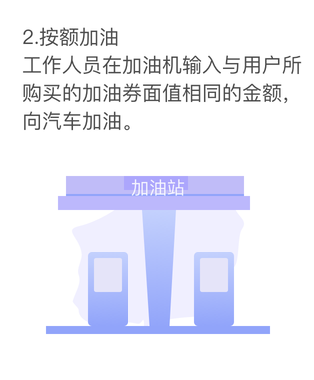
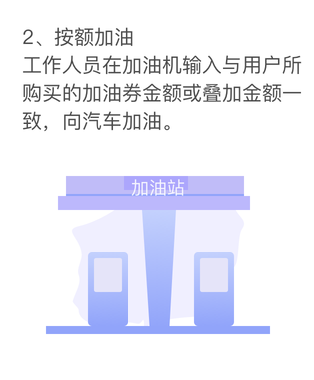
修改特惠加油说明文言

Changed region(s): [[0.0573, 0.2026, 0.7739, 0.3474], [0.1146, 0.0579, 0.4299, 0.1447], [0.8885, 0.2316, 0.9459, 0.2605]]

diff --git a/XTModulesSDK/Modules/Refuel/XTRefuelViewController.m b/XTModulesSDK/Modules/Refuel/XTRefuelViewController.m
@@ -614,7 +614,7 @@ typedef NS_ENUM(NSInteger, XTCountOperateType)
 - (UIView *)purchaseNoticeView
 {
     if (!_purchaseNoticeView) {
-        NSString *purchaseNotice = @"1、此电子券由中国石油天然气股份有限公司辽宁销售分公司发行，在所属指定加油站通用（仅限辽宁省内使用）。\n\n2、此卡不记名，有效期自购买之日起3年，不挂失补办和退卡、不找零、不兑现，请勿将二维码泄露给他人，因保管不当造成损失后果自负。\n\n3、此卡200元(含)面值以下一次性核销。\n\n4、可以一次购买一张或者多张电子券，可多张叠加使用，不找零。\n\n5、可使用右上角“附近加油站”功能查看可使用的加油站。如遇到不能使用的情况请拨打客服电话400-024-0700";
+        NSString *purchaseNotice = @"1、此电子券由中国石油天然气股份有限公司辽宁销售分公司发行，在所属指定加油站通用（仅限辽宁省内使用）。\n\n2、此电子券不记名，有效期自购买之日起3年，不挂失补办、不找零、不兑现，请勿将电子券码泄露给他人，因保管不当造成损失后果自负。\n\n3、此电子券200元（含）面值以下一次性核销。\n\n4、可以一次购买一张或者多张电子券，可多张叠加使用，不找零。\n\n5、可使用右上角“附近加油站”功能查看可使用的加油站。如遇到不能使用的情况请拨打客服电话400-024-0700。";
         CGFloat height = [XTAppUtils sizeOfString:purchaseNotice font:XTFont(12.0) constrainedToSize:CGSizeMake(CGRectGetWidth(self.refuelTableView.bounds) - 50.0, MAXFLOAT) lineBreakMode:NSLineBreakByWordWrapping].height + 10.0;
         _purchaseNoticeView = [[UIView alloc] initWithFrame:CGRectMake(25.0, 0.0, CGRectGetWidth(self.refuelTableView.bounds) - 50.0, height)];
         _purchaseNoticeView.backgroundColor = [UIColor clearColor];
@@ -666,7 +666,7 @@ typedef NS_ENUM(NSInteger, XTCountOperateType)
 - (UIView *)priceDescriptionView
 {
     if (!_priceDescriptionView) {
-        NSString *priceDescription = @"面值：指加油券的价值数额。\n\n折扣：如无特殊说明，折扣指加油券面值基础上计算出的优惠比例或优惠金额；如有疑问，您可在购买前联系客服进行咨询。\n\n异常问题：具体的成交价格可能因用户使用优惠券产生变化，最终价格以订单结算价为准。";
+        NSString *priceDescription = @"面额：指加油券的价值数额。\n\n折扣：如无特殊说明，折扣指加油券面值基础上计算出的优惠比例或优惠金额；如有疑问，您可在购买前联系客服进行咨询。\n\n异常问题：具体的成交价格可能因用户使用的优惠券产生变化，最终价格以订单结算价为准；如您发现活动商品售价或促销信息有异常，建议购买前先联系客服咨询。";
         CGFloat height = [XTAppUtils sizeOfString:priceDescription font:XTFont(12.0) constrainedToSize:CGSizeMake(CGRectGetWidth(self.refuelTableView.bounds) - 50.0, MAXFLOAT) lineBreakMode:NSLineBreakByWordWrapping].height + 10.0;
         _priceDescriptionView = [[UIView alloc] initWithFrame:CGRectMake(25.0, 0.0, CGRectGetWidth(self.refuelTableView.bounds) - 50.0, height)];
         _priceDescriptionView.backgroundColor = [UIColor clearColor];
